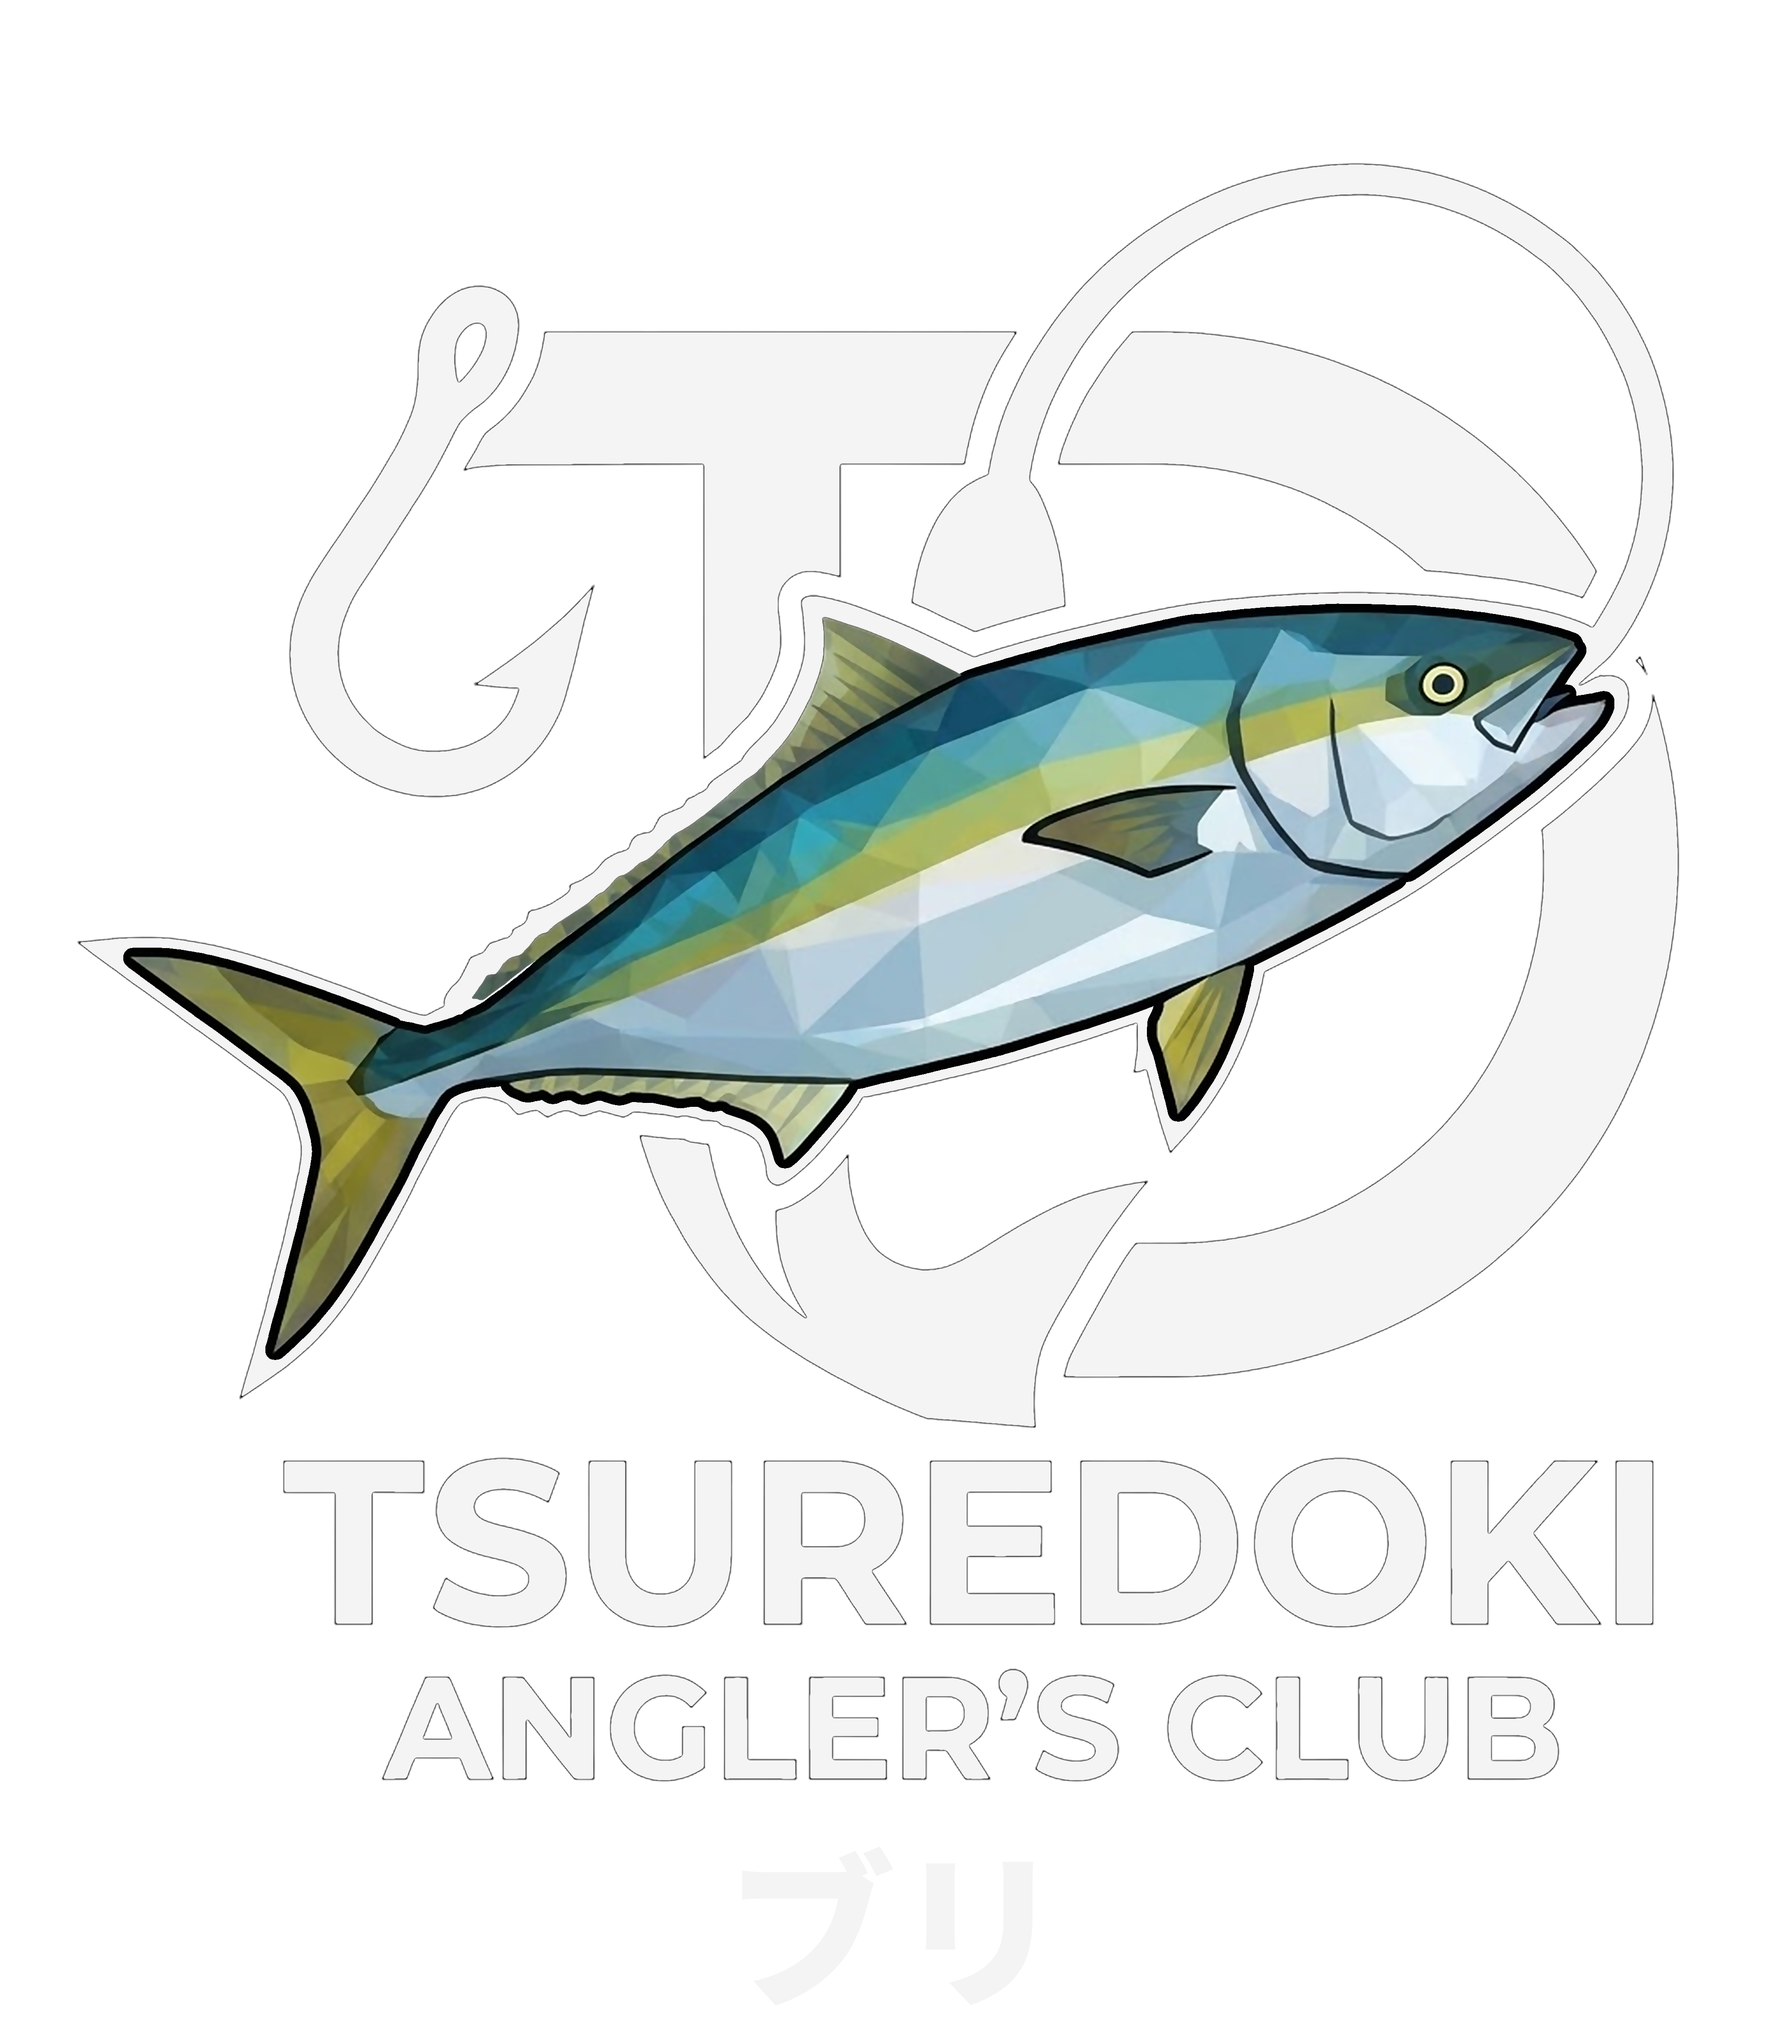
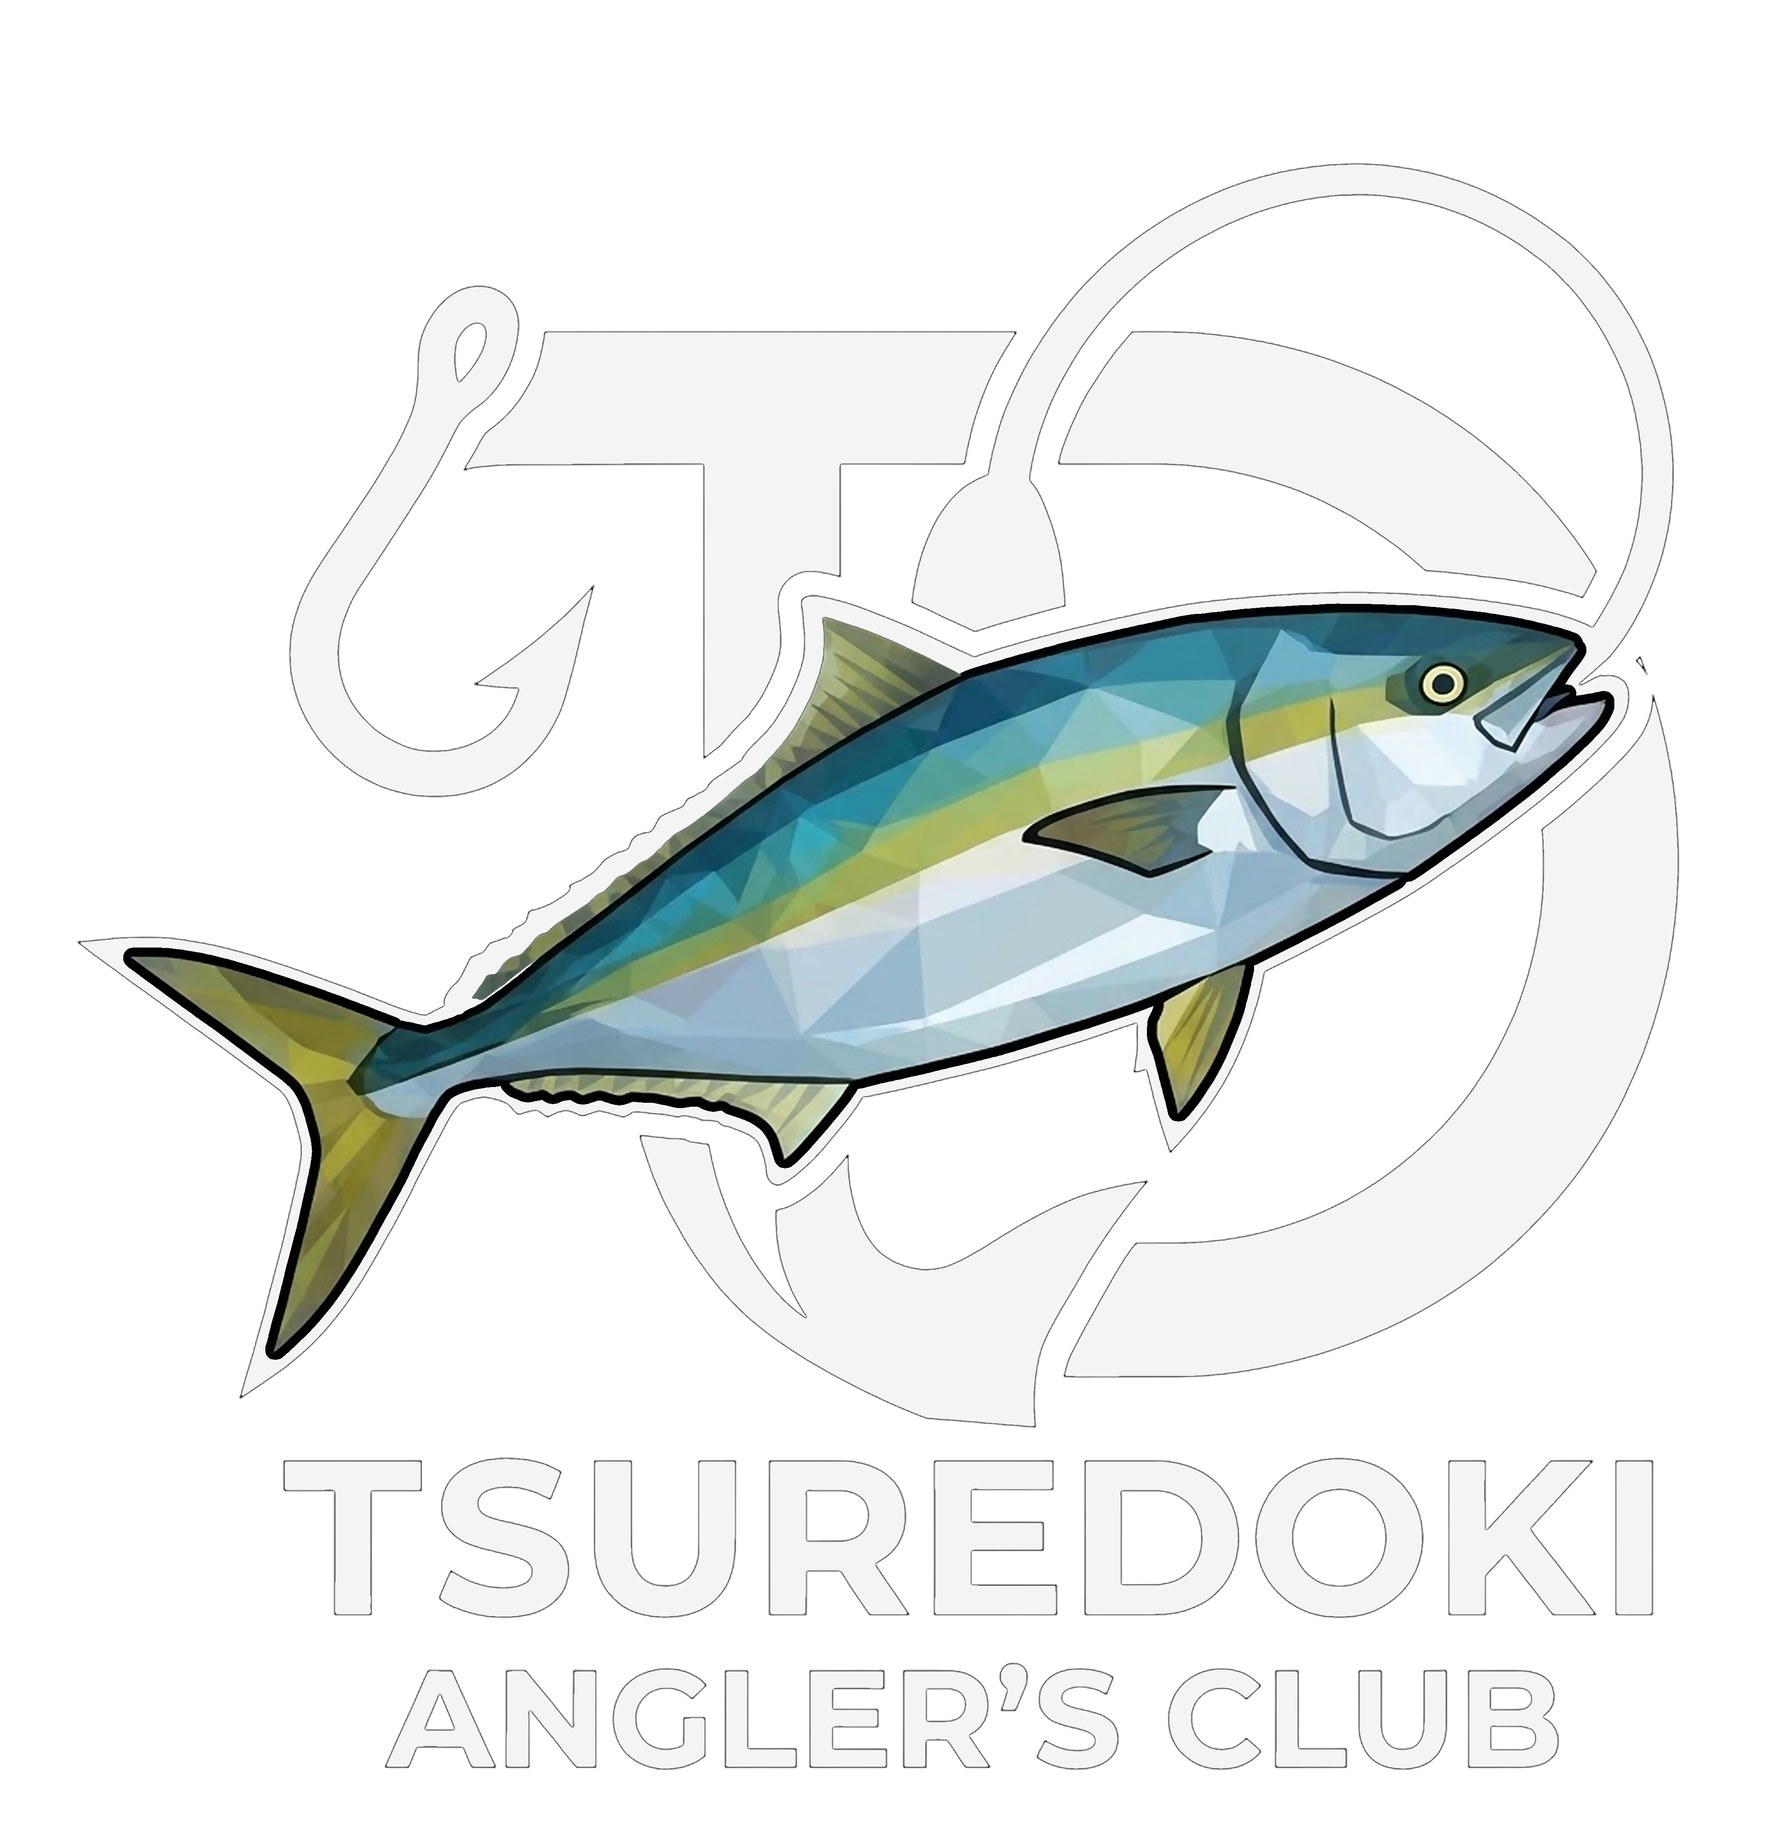
グッズ：魚名なし・文字をサワラ版にそろえる（ANGLER'S CLUB 6魚種）
Claude-Session: https://claude.ai/code/session_0136AjP6UKpQXASPdXzdeXrp

diff --git a/content/goods/td-club/textswap.py b/content/goods/td-club/textswap.py
@@ -1,0 +1,69 @@
+# 魚種の名前を消し、TSUREDOKI / ANGLER'S CLUB の文字をサワラの版の文字にそろえる（2026-11-16 オーナー）
+#   python3 content/goods/td-club/textswap.py   … owner/<魚>-light.png / -dark.png を書き換え
+import os
+import numpy as np
+from PIL import Image
+
+D = os.path.join(os.path.dirname(os.path.abspath(__file__)), "owner")
+FISH = ["sawara", "buri", "madai", "aori", "seabass", "chinu"]
+
+
+def bands(a):
+    rows = (a > 40).sum(1) > 0
+    out, y = [], len(rows) - 1
+    while y >= 0:
+        while y >= 0 and not rows[y]:
+            y -= 1
+        if y < 0:
+            break
+        b = y
+        while y >= 0 and rows[y]:
+            y -= 1
+        out.append((y + 1, b))
+    return out  # 下から順に (上, 下)
+
+
+def text_bands(a):
+    bs = bands(a)
+    # 文字の行は高さが画像の 12% 未満。上に大きな絵の帯が来たら止まる
+    H = a.shape[0]
+    t = []
+    for top, bot in bs:
+        if bot - top > H * 0.12:
+            break
+        t.append((top, bot))
+    return t  # 下から
+
+
+def xspan(a, top, bot):
+    cols = (a[top:bot + 1] > 40).sum(0) > 0
+    xs = np.where(cols)[0]
+    return xs[0], xs[-1]
+
+
+for var in ("light", "dark"):
+    src = np.array(Image.open(f"{D}/sawara-{var}.png").convert("RGBA"))
+    tb = text_bands(src[..., 3])
+    # サワラ：下から ANGLER'S CLUB, TSUREDOKI（魚名があれば、その上の2本）
+    tb_sorted = sorted(tb)  # 上から
+    ts, ang = tb_sorted[0], tb_sorted[1]
+    x0, x1 = xspan(src[..., 3], ts[0], ts[1])
+    ax0, ax1 = xspan(src[..., 3], ang[0], ang[1])
+    blk = Image.fromarray(src[ts[0]:ang[1] + 1, min(x0, ax0):max(x1, ax1) + 1])
+    tsw = x1 - x0  # TSUREDOKI の幅（拡大率の基準）
+    tsx0 = x0 - min(x0, ax0)
+    for f in FISH:
+        im = np.array(Image.open(f"{D}/{f}-{var}.png").convert("RGBA"))
+        t = sorted(text_bands(im[..., 3]))  # 上から：TSUREDOKI, ANGLER'S CLUB, (魚名)
+        top = t[0][0]
+        X0, X1 = xspan(im[..., 3], t[0][0], t[0][1])
+        k = (X1 - X0) / tsw
+        b2 = blk.resize((int(blk.width * k), int(blk.height * k)), Image.LANCZOS)
+        im[top:, :, 3] = 0
+        out = Image.fromarray(im)
+        H = top + b2.height + int(0.03 * im.shape[0])
+        canvas = Image.new("RGBA", (out.width, max(H, top + b2.height + 4)), (0, 0, 0, 0))
+        canvas.paste(out.crop((0, 0, out.width, min(out.height, canvas.height))), (0, 0))
+        canvas.alpha_composite(b2, (int(X0 - tsx0 * k), top))
+        canvas.save(f"{D}/{f}-{var}.png")
+        print("ok", f, var, canvas.size, f"k={k:.2f}")
